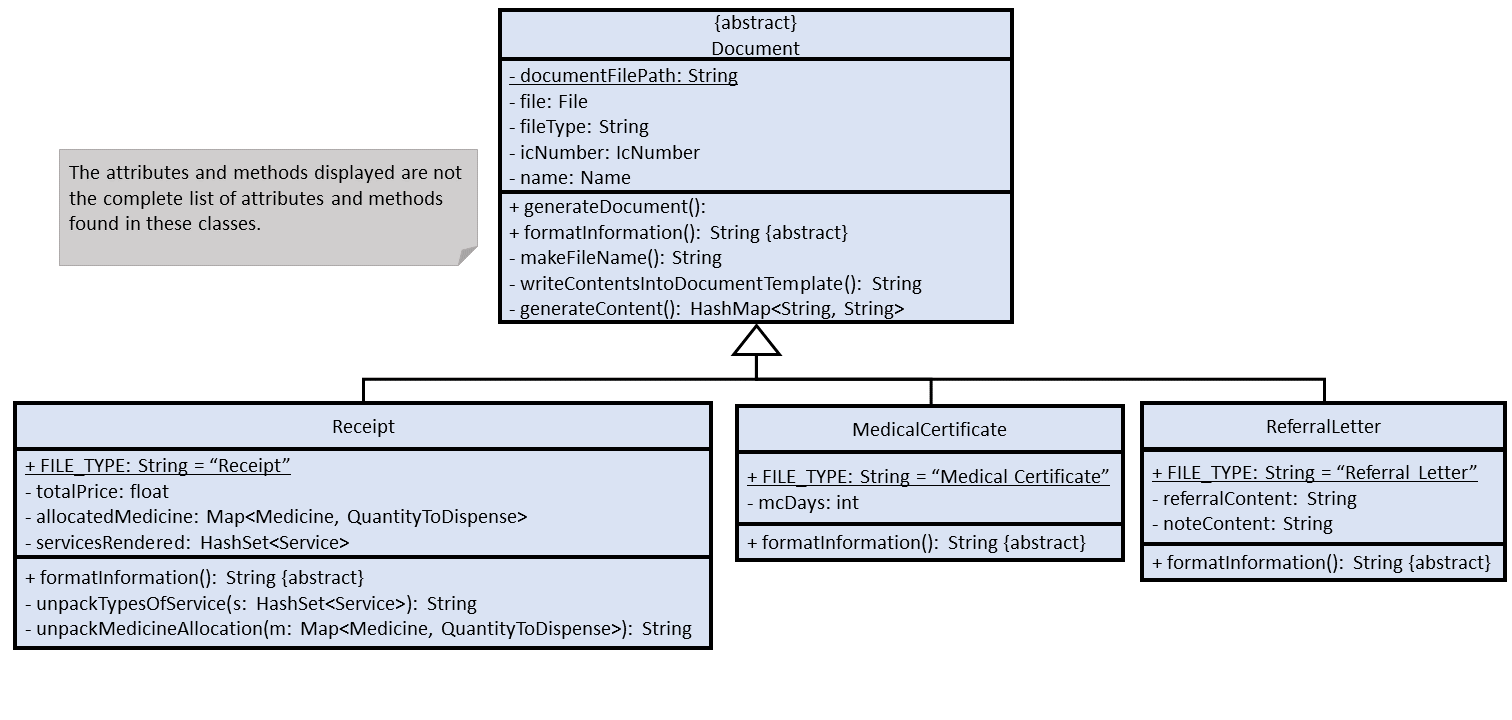
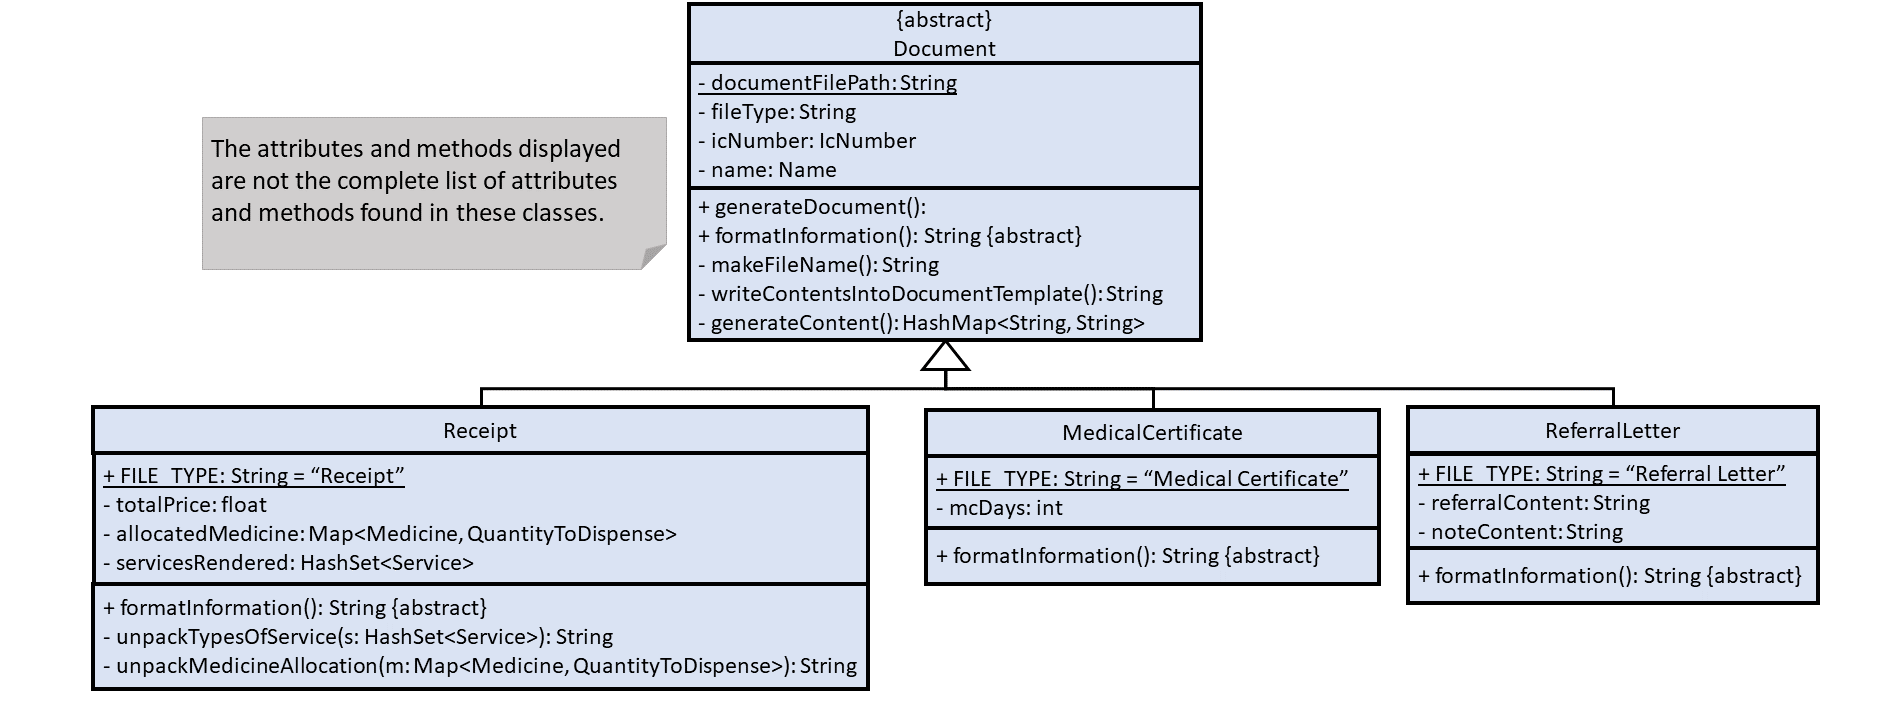
Rebuild pages at 1272294254cc9845ee000c8704b8c222f3d4fbf1

Changed region(s): [[0.0, 0.0, 1.0, 0.9778]]

diff --git a/team/clawyq.html b/team/clawyq.html
@@ -320,12 +320,13 @@ Updates the phone number and e-mail address of the 5th patient in the list to <c
  <code>MedicalCertificate</code> and <code>ReferralLetter</code> concrete classes, which respective <strong>commands</strong> will be referred
  to henceforth as <em>document related commands</em>, all inherit from. It can be thought of as a <strong>formatter</strong> that
  specifies and organises the common information that all these documents must have with the help of the <code>DocumentTemplate.html</code>
- template file. Shown below is a class diagram  illustrating how <code>Document</code>, <code>Receipt</code>, <code>MedicalCertificate</code> and
+ template file.<br>
+ Shown below is a class diagram  illustrating how <code>Document</code>, <code>Receipt</code>, <code>MedicalCertificate</code> and
  <code>ReferralLetter</code> relate to one another.</p>
 </div>
 <div class="imageblock">
 <div class="content">
-<img src="../images/DocumentClassDiagram.png" alt="DocumentClassDiagram" width="600">
+<img src="../images/DocumentClassDiagram.png" alt="DocumentClassDiagram" width="900">
 </div>
 <div class="title">Figure 3. Class diagram representing how the <code>Document</code> and <em>document related</em> classes are implemented.</div>
 </div>
@@ -336,7 +337,7 @@ Updates the phone number and e-mail address of the 5th patient in the list to <c
 <div class="ulist">
 <ul>
 <li>
-<p>contains a <code>name</code> and <code>icNumber</code> attribute, extracted from the <code>ServedPatient</code> from which the document is constructed.</p>
+<p>contains the <code>name</code> and <code>icNumber</code> attributes, extracted from the <code>ServedPatient</code> from which the document was constructed from.</p>
 </li>
 <li>
 <p>has common methods like <code>generateContent</code> to standardise the way in which the contents of the <code>Document</code> are formatted.</p>
@@ -445,8 +446,8 @@ key-value pairs found in the <code>HashMap</code> created by the <code>generateC
 </div>
 </div>
 <div class="paragraph">
-<p>Step 4. Now that the <code>HTML</code> template is a <code>string</code> with the placeholder values replaced by the corresponding information, a <code>BufferedOutputStream</code>
-is used to write the <code>string</code> into the <code>HTML</code> file, concluding the generation of the <code>HTML</code> file.</p>
+<p>Step 4. Now that the <code>HTML</code> template is a <code>string</code> with the placeholder values replaced by the correct information, a <code>BufferedOutputStream</code>
+is used to write the updated <code>string</code> into the <code>HTML</code> file, concluding the generation of the <code>Document</code> <code>HTML</code> file.</p>
 </div>
 </div>
 <div class="sect3">
@@ -601,4 +602,4 @@ Shown below is how the <code>Map&lt;Medicine, MedicineQuantity&gt;</code> of a <
 </div>
 </div>
 </div>
-</div></div><div id="footer"><div class="container"><div id="footer-text">Last updated 2018-11-06 15:42:28 UTC</div></div></div></body></html>
+</div></div><div id="footer"><div class="container"><div id="footer-text">Last updated 2018-11-06 16:50:59 UTC</div></div></div></body></html>

diff --git a/DeveloperGuide.html b/DeveloperGuide.html
@@ -1280,12 +1280,13 @@ him from the <code>ServedPatientQueue</code>.</p>
  <code>MedicalCertificate</code> and <code>ReferralLetter</code> concrete classes, which respective <strong>commands</strong> will be referred
  to henceforth as <em>document related commands</em>, all inherit from. It can be thought of as a <strong>formatter</strong> that
  specifies and organises the common information that all these documents must have with the help of the <code>DocumentTemplate.html</code>
- template file. Shown below is a class diagram  illustrating how <code>Document</code>, <code>Receipt</code>, <code>MedicalCertificate</code> and
+ template file.<br>
+ Shown below is a class diagram  illustrating how <code>Document</code>, <code>Receipt</code>, <code>MedicalCertificate</code> and
  <code>ReferralLetter</code> relate to one another.</p>
 </div>
 <div class="imageblock">
 <div class="content">
-<img src="images/DocumentClassDiagram.png" alt="DocumentClassDiagram" width="600">
+<img src="images/DocumentClassDiagram.png" alt="DocumentClassDiagram" width="900">
 </div>
 <div class="title">Figure 23. Class diagram representing how the <code>Document</code> and <em>document related</em> classes are implemented.</div>
 </div>
@@ -1296,7 +1297,7 @@ him from the <code>ServedPatientQueue</code>.</p>
 <div class="ulist">
 <ul>
 <li>
-<p>contains a <code>name</code> and <code>icNumber</code> attribute, extracted from the <code>ServedPatient</code> from which the document is constructed.</p>
+<p>contains the <code>name</code> and <code>icNumber</code> attributes, extracted from the <code>ServedPatient</code> from which the document was constructed from.</p>
 </li>
 <li>
 <p>has common methods like <code>generateContent</code> to standardise the way in which the contents of the <code>Document</code> are formatted.</p>
@@ -1405,8 +1406,8 @@ key-value pairs found in the <code>HashMap</code> created by the <code>generateC
 </div>
 </div>
 <div class="paragraph">
-<p>Step 4. Now that the <code>HTML</code> template is a <code>string</code> with the placeholder values replaced by the corresponding information, a <code>BufferedOutputStream</code>
-is used to write the <code>string</code> into the <code>HTML</code> file, concluding the generation of the <code>HTML</code> file.</p>
+<p>Step 4. Now that the <code>HTML</code> template is a <code>string</code> with the placeholder values replaced by the correct information, a <code>BufferedOutputStream</code>
+is used to write the updated <code>string</code> into the <code>HTML</code> file, concluding the generation of the <code>Document</code> <code>HTML</code> file.</p>
 </div>
 </div>
 <div class="sect3">
@@ -3432,4 +3433,4 @@ Expected: No medicine is added. Error details shown in the status message. Statu
 </div>
 </div>
 </div>
-</div></div><div id="footer"><div class="container"><div id="footer-text">Last updated 2018-11-06 15:42:28 UTC</div></div></div></body></html>
+</div></div><div id="footer"><div class="container"><div id="footer-text">Last updated 2018-11-06 16:50:59 UTC</div></div></div></body></html>

diff --git a/team/johndoe.html b/team/johndoe.html
@@ -462,4 +462,4 @@ If the <code>currentStatePointer</code> is at index <code>addressBookStateList.s
 <p><em>{Optionally, you may include other projects in your portfolio.}</em></p>
 </div>
 </div>
-</div></div><div id="footer"><div class="container"><div id="footer-text">Last updated 2018-11-06 15:42:28 UTC</div></div></div></body></html>
+</div></div><div id="footer"><div class="container"><div id="footer-text">Last updated 2018-11-06 16:50:59 UTC</div></div></div></body></html>

diff --git a/ContactUs.html b/ContactUs.html
@@ -12,4 +12,4 @@
 <p><strong>Email us</strong> : You can also reach us at <code>damith [at] comp.nus.edu.sg</code></p>
 </li>
 </ul>
-</div></div><div id="footer"><div class="container"><div id="footer-text">Last updated 2018-11-06 15:42:28 UTC</div></div></div></body></html>
+</div></div><div id="footer"><div class="container"><div id="footer-text">Last updated 2018-11-06 16:50:59 UTC</div></div></div></body></html>

diff --git a/LearningOutcomes.html b/LearningOutcomes.html
@@ -542,4 +542,4 @@ class gives some examples of how to use <em>Equivalence Partitions</em>, <em>Bou
 </div>
 </div>
 </div>
-</div></div><div id="footer"><div class="container"><div id="footer-text">Last updated 2018-11-06 15:42:28 UTC</div></div></div></body></html>
+</div></div><div id="footer"><div class="container"><div id="footer-text">Last updated 2018-11-06 16:50:59 UTC</div></div></div></body></html>

diff --git a/team/blewjy.html b/team/blewjy.html
@@ -644,4 +644,4 @@ Adds <code>B+</code> (under <em>Blood Type</em>) to the <code>MedicalRecord</cod
 </div>
 </div>
 </div>
-</div></div><div id="footer"><div class="container"><div id="footer-text">Last updated 2018-11-06 15:42:28 UTC</div></div></div></body></html>
+</div></div><div id="footer"><div class="container"><div id="footer-text">Last updated 2018-11-06 16:50:59 UTC</div></div></div></body></html>

diff --git a/team/syahiranrafi.html b/team/syahiranrafi.html
@@ -329,4 +329,4 @@ Executing <code>refer</code> with an invalid index will <strong>not</strong> res
 </div>
 </div>
 </div>
-</div></div><div id="footer"><div class="container"><div id="footer-text">Last updated 2018-11-06 15:42:28 UTC</div></div></div></body></html>
+</div></div><div id="footer"><div class="container"><div id="footer-text">Last updated 2018-11-06 16:50:59 UTC</div></div></div></body></html>

diff --git a/UsingGradle.html b/UsingGradle.html
@@ -255,4 +255,4 @@ See <code>build.gradle</code> &#8594; <code>allprojects</code> &#8594; <code>dep
 </ul>
 </div>
 </div>
-</div></div><div id="footer"><div class="container"><div id="footer-text">Last updated 2018-11-06 15:42:28 UTC</div></div></div></body></html>
+</div></div><div id="footer"><div class="container"><div id="footer-text">Last updated 2018-11-06 16:50:59 UTC</div></div></div></body></html>

diff --git a/UsingNetlify.html b/UsingNetlify.html
@@ -123,4 +123,4 @@ The publish directory is the directory in which the built HTML documentation res
 </ol>
 </div>
 </div>
-</div></div><div id="footer"><div class="container"><div id="footer-text">Last updated 2018-11-06 15:42:28 UTC</div></div></div></body></html>
+</div></div><div id="footer"><div class="container"><div id="footer-text">Last updated 2018-11-06 16:50:59 UTC</div></div></div></body></html>

diff --git a/UsingCoveralls.html b/UsingCoveralls.html
@@ -96,4 +96,4 @@ If you have not set up Travis CI, see <a href="UsingTravis.html">UsingTravis.ado
 </ol>
 </div>
 </div>
-</div></div><div id="footer"><div class="container"><div id="footer-text">Last updated 2018-11-06 15:42:28 UTC</div></div></div></body></html>
+</div></div><div id="footer"><div class="container"><div id="footer-text">Last updated 2018-11-06 16:50:59 UTC</div></div></div></body></html>

diff --git a/team/99percentile.html b/team/99percentile.html
@@ -311,4 +311,4 @@ which lists the medicine that are below their Minimum Stock Quantity.</p>
 </div>
 </div>
 </div>
-</div></div><div id="footer"><div class="container"><div id="footer-text">Last updated 2018-11-06 15:42:28 UTC</div></div></div></body></html>
+</div></div><div id="footer"><div class="container"><div id="footer-text">Last updated 2018-11-06 16:50:59 UTC</div></div></div></body></html>

diff --git a/UsingTravis.html b/UsingTravis.html
@@ -280,4 +280,4 @@ Suggested change: Remove the codacy badge from <code>README</code>.</p>
 </div>
 </div>
 </div>
-</div></div><div id="footer"><div class="container"><div id="footer-text">Last updated 2018-11-06 15:42:28 UTC</div></div></div></body></html>
+</div></div><div id="footer"><div class="container"><div id="footer-text">Last updated 2018-11-06 16:50:59 UTC</div></div></div></body></html>
